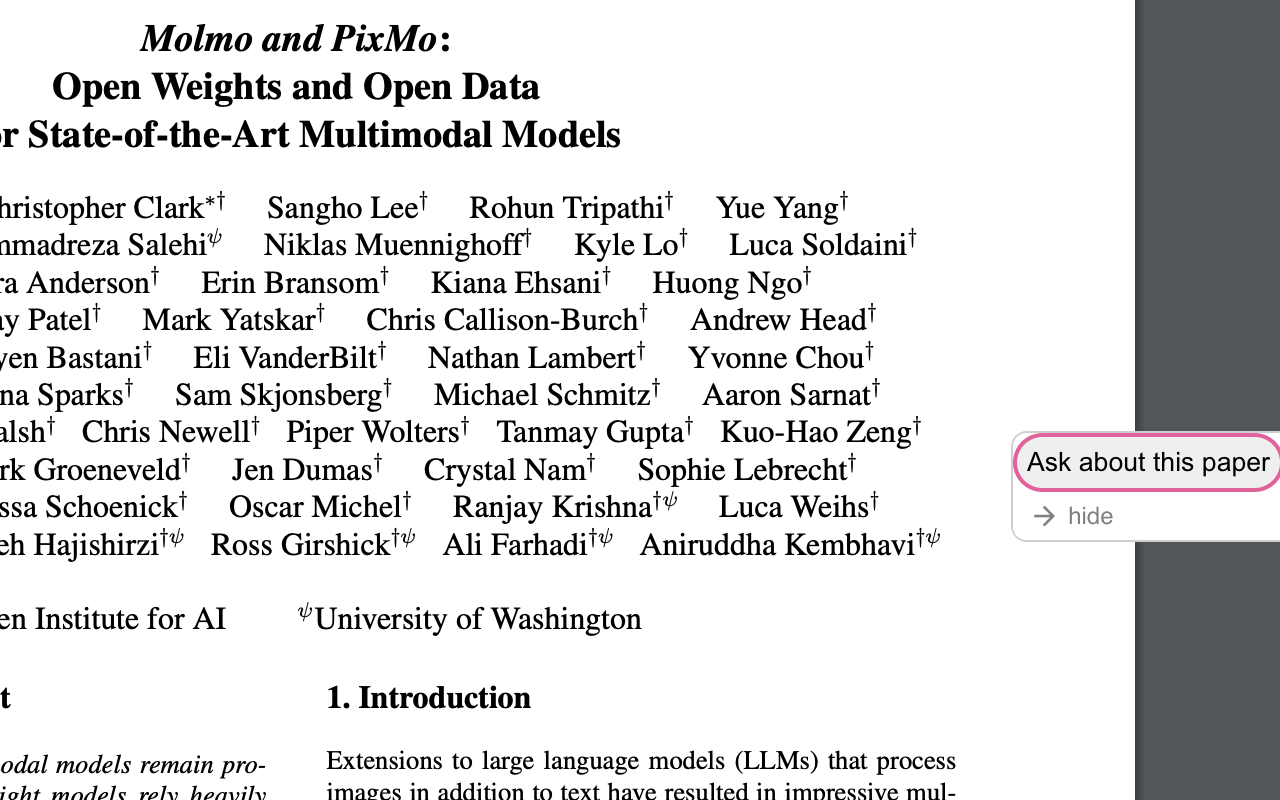
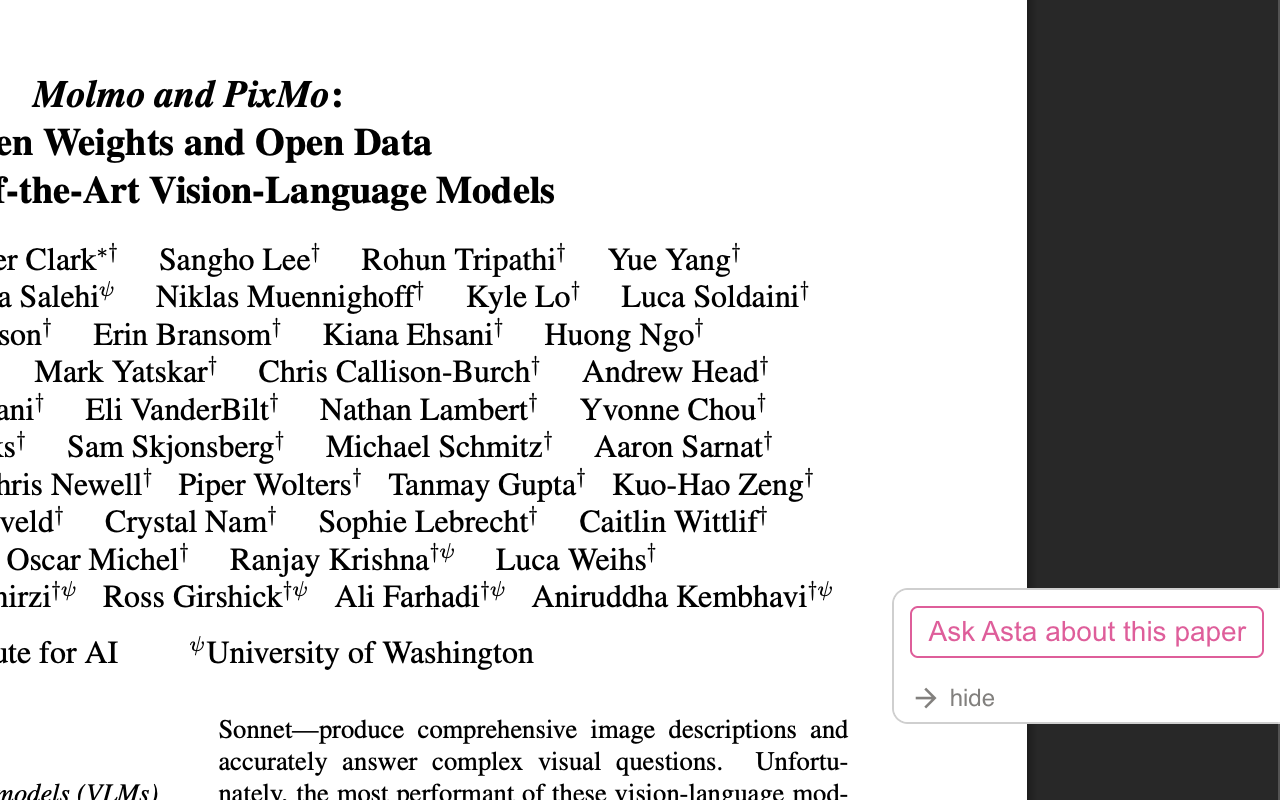
Update URLs from nora.allen.ai to docvis-ui.allen.ai (#12)

diff --git a/src/asta/__tests__/asta-badges.test.js b/src/asta/__tests__/asta-badges.test.js
@@ -7,7 +7,7 @@ describe('createBadge', () => {
   function createBadge (corpusId) {
     return `
     <div>
-      <a href="https://nora.allen.ai/chat?trigger=reader&trigger_context=%7B%22corpusId%22%3A%20${corpusId}%7D&message_id=7af3e2de-2098-4bc4-987e-fcf0985355a2&utm_source=extension&utm_medium=badge" target="_blank" style="text-decoration: none; display:block; padding-top:8px;">
+      <a href="https://docvis-ui.allen.ai/?corpus_id=${corpusId}&utm_source=extension&utm_medium=badge" target="_blank" style="text-decoration: none; display:block; padding-top:8px;">
         <button style="padding: 4px 8px; color: #f0529c; border: 1px solid #f0529c; background-color: #ffffff; border-radius: 4px; cursor: pointer; font-family:manrope, arial, sans-serif;">
           Ask Asta about this paper
         </button>
@@ -16,16 +16,16 @@ describe('createBadge', () => {
   `
   }
 
-  it('generates HTML with corpusId in URL', () => {
+  it('generates HTML with corpus_id in URL', () => {
     const html = createBadge(123456)
 
-    expect(html).toContain('corpusId%22%3A%20123456')
+    expect(html).toContain('corpus_id=123456')
   })
 
   it('includes correct chat URL', () => {
     const html = createBadge(123456)
 
-    expect(html).toContain('https://nora.allen.ai/chat')
+    expect(html).toContain('https://docvis-ui.allen.ai/')
   })
 
   it('includes UTM parameters for tracking', () => {
@@ -58,8 +58,8 @@ describe('createBadge', () => {
     const html1 = createBadge(111111)
     const html2 = createBadge(999999)
 
-    expect(html1).toContain('corpusId%22%3A%20111111')
-    expect(html2).toContain('corpusId%22%3A%20999999')
+    expect(html1).toContain('corpus_id=111111')
+    expect(html2).toContain('corpus_id=999999')
   })
 })
 

diff --git a/src/background.js b/src/background.js
@@ -3,17 +3,20 @@ if (typeof chrome !== 'undefined' && chrome) {
   browser = chrome
 }
 
+// Base URL injected at build time based on TARGET environment variable
+const ASTA_UI_URL = process.env.ASTA_UI_URL
+
 browser.runtime.onInstalled.addListener(function (details) {
   if (details.reason === 'install') {
     browser.tabs.create({
-      url: 'https://nora.allen.ai/chat?utm_source=extension&utm_medium=install'
+      url: `${ASTA_UI_URL}/?utm_source=extension&utm_medium=install`
     })
   }
 })
 
 browser.action.onClicked.addListener(function (tab) {
   browser.tabs.create({
-    url: 'https://nora.allen.ai/chat?utm_source=extension&utm_medium=button_click'
+    url: `${ASTA_UI_URL}/?utm_source=extension&utm_medium=button_click`
   })
 })
 
@@ -39,7 +42,7 @@ browser.contextMenus.onClicked.addListener(function (info, tab) {
       )
 
       browser.tabs.create({
-        url: `https://nora.allen.ai/chat?query=${encodedSelection}&utm_source=extension&utm_medium=context`
+        url: `${ASTA_UI_URL}/?query=${encodedSelection}&utm_source=extension&utm_medium=context`
       })
     }
   }

diff --git a/src/asta/asta-popup.js b/src/asta/asta-popup.js
@@ -8,10 +8,10 @@ import HideableTally from '../components/HideableTally'
 import styles from './asta-popup.css' // Asta-specific styles (includes CSS-only arrow icons)
 import { matchReferenceS2Batch, checkShowable, extractArxivId, extractCorpusId } from './s2-integration'
 
-const ASTA_CHAT_BASE_URL = 'https://nora.allen.ai/chat?trigger=reader&trigger_context=%7B%22corpusId%22%3A%20'
-const ASTA_CHAT_PARAMS = '%7D&message_id=7af3e2de-2098-4bc4-987e-fcf0985355a2&utm_source=extension&utm_medium=paper'
+// Base URL injected at build time based on TARGET environment variable
+const ASTA_UI_URL = process.env.ASTA_UI_URL
 
-const buildAstaChatUrl = (corpusId) => `${ASTA_CHAT_BASE_URL}${corpusId}${ASTA_CHAT_PARAMS}`
+const buildAstaChatUrl = (corpusId) => `${ASTA_UI_URL}/?corpus_id=${corpusId}&utm_source=extension&utm_medium=paper`
 
 let poppedUp = false
 

diff --git a/config/webpack.common.js b/config/webpack.common.js
@@ -1,5 +1,17 @@
 const path = require('path')
+const webpack = require('webpack')
 const MiniCssExtractPlugin = require('mini-css-extract-plugin')
+const buildConfig = require('./build-config')
+
+// Get build target from environment (default to 'public')
+const target = process.env.TARGET || 'public'
+const config = buildConfig[target]
+
+if (!config) {
+  throw new Error(`Unknown TARGET: ${target}. Must be 'public' or 'internal'`)
+}
+
+console.log(`Building for target: ${target} (${config.ASTA_UI_URL})`)
 
 module.exports = {
   entry: {
@@ -39,6 +51,9 @@ module.exports = {
   plugins: [
     new MiniCssExtractPlugin({
       filename: 'styles.css'
+    }),
+    new webpack.DefinePlugin({
+      'process.env.ASTA_UI_URL': JSON.stringify(config.ASTA_UI_URL)
     })
   ]
 }

diff --git a/src/asta/asta-badges.js b/src/asta/asta-badges.js
@@ -2,10 +2,10 @@
 import { matchReferenceS2, matchReferenceS2Batch, checkShowable } from './s2-integration'
 import { sliceIntoChunks } from '../util'
 
-const ASTA_CHAT_BASE_URL = 'https://nora.allen.ai/chat?trigger=reader&trigger_context=%7B%22corpusId%22%3A%20'
-const ASTA_CHAT_PARAMS = '%7D&message_id=7af3e2de-2098-4bc4-987e-fcf0985355a2&utm_source=extension&utm_medium=badge'
+// Base URL injected at build time based on TARGET environment variable
+const ASTA_UI_URL = process.env.ASTA_UI_URL
 
-const buildAstaChatUrl = (corpusId) => `${ASTA_CHAT_BASE_URL}${corpusId}${ASTA_CHAT_PARAMS}`
+const buildAstaChatUrl = (corpusId) => `${ASTA_UI_URL}/?corpus_id=${corpusId}&utm_source=extension&utm_medium=badge`
 
 export function createAstaBadge (corpusId) {
   return `

diff --git a/config/build-config.js b/config/build-config.js
@@ -1,0 +1,13 @@
+// Build configuration for different deployment targets
+//
+// public: experimental production (docvis-ui.allen.ai)
+// internal: AI2 dogfooding (set via INTERNAL_URL env var)
+
+module.exports = {
+  public: {
+    ASTA_UI_URL: 'https://docvis-ui.allen.ai'
+  },
+  internal: {
+    ASTA_UI_URL: process.env.INTERNAL_URL || 'https://docvis-ui.allen.ai'
+  }
+}
